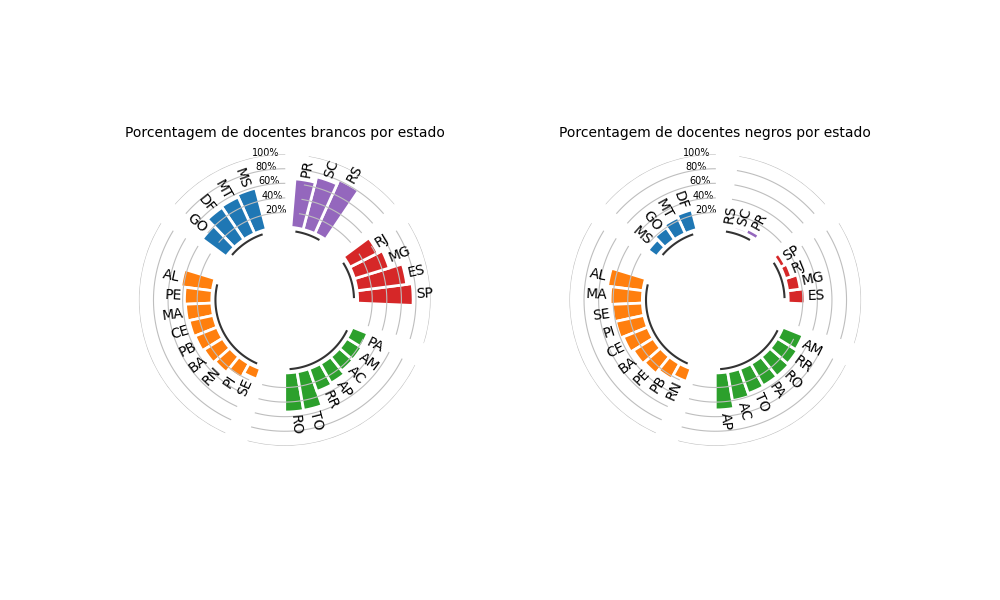
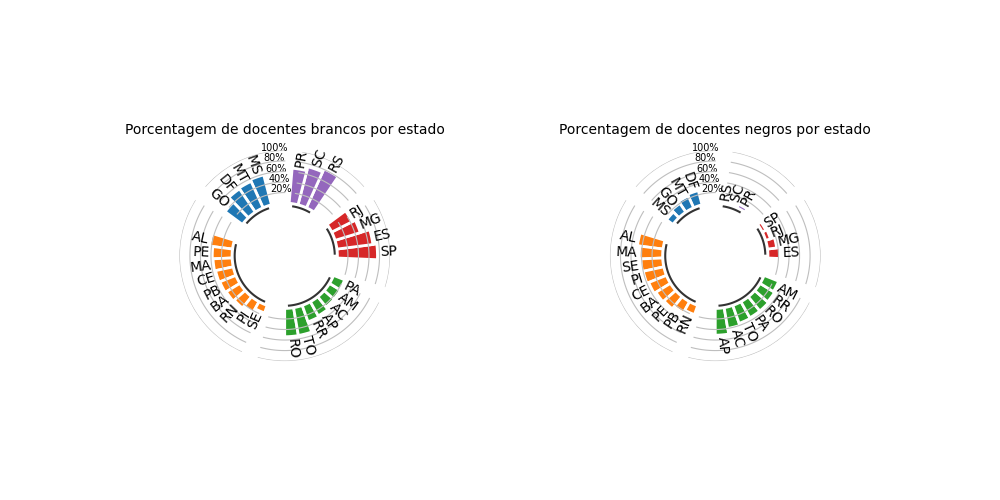
html basico pronto

Changed region(s): [[0.124, 0.21, 0.465, 0.75], [0.558, 0.21, 0.868, 0.72]]

diff --git a/index.html b/index.html
@@ -14,16 +14,16 @@
             <h1>
               A1 - Linguagens de programação
             </h1>
-            <h2>
+            <h2 class="texto-header">
               Grupo:
             </h2>
-            <h3>
+            <h3 class="texto-header">
               Daniel de Miranda Almeida
             </h3>
-            <h3>
+            <h3 class="texto-header">
               Guilherme Carvalho Cunha
             </h3>
-            <h3>
+            <h3 class="texto-header">
               Kauan Mariani Ferreira
             </h3>
         </div>
@@ -70,10 +70,18 @@
 
       <div class="grafico">
         <div class="texto-grafico">
-            <p>Observando a base e encarando a possibilidade de fazer uma visualização dividida por estados, concluí que um plot de mapa seria interessante para essa ocasião. Desse modo, foi necessária a importação da biblioteca geopandas e a leitura de um arquivo que contenha as dimensões (geometria) dos estados brasileiros.</p>
-            <p>O resultado foi um gráfico que apresenta a quantidade de docentes no ensino superior dividido por estado.</p>
-            <p>Analisando o plot, podemos observar a já esperada predominância numérica dos estados do sul e do eixo, resultado de uma concentração populacional e de investimento. 
-            Essa disparidade é tão grande, que apenas São Paulo possui mais profissionais que toda a região norte ou centro-oeste somadas.</p>
+            <p class="p-texto-grafico">
+              Observando a base e encarando a possibilidade de fazer uma visualização dividida por estados, concluí que um plot de mapa seria interessante para essa ocasião. Desse modo, foi necessária a importação da biblioteca geopandas e a leitura de um arquivo que contenha as dimensões (geometria) dos estados brasileiros.
+            </p>
+            <p class="p-texto-grafico">
+              O resultado foi um gráfico que apresenta a quantidade de docentes no ensino superior dividido por estado.
+            </p>
+            <p class="p-texto-grafico">
+              Analisando o plot, podemos observar a já esperada predominância numérica dos estados do sul e do eixo, resultado de uma concentração populacional e de investimento. 
+            </p>
+            <p>
+              Essa disparidade é tão grande, que apenas São Paulo possui mais profissionais que toda a região norte e centro-oeste somadas.
+            </p>
         </div>
         <div class="imagem-grafico">
             <img src="graficos/plot_mapa.png" alt="Visualização de porcentagem de docentes por raça e por estado">

diff --git a/style.css b/style.css
@@ -24,9 +24,15 @@ body {
     align-items: center;
 }
 
+.texto-header {
+    margin: 2px;
+}
+
 .grafico {
     margin: 10px;
     
+    width: 95vw;
+
     border-radius: 4%;
     
     display: flex;

diff --git a/main.py b/main.py
@@ -25,55 +25,54 @@ from functions.database.read import *
 # Lendo csv
 df_ens_sup = ler_csv("bases_de_dados/ed-superior-inep.csv")
 
-# geometria_brasil = criar_geometria_brasil("bases_de_dados/bcim_2016_21_11_2018.gpkg", "lim_unidade_federacao_a")
+geometria_brasil = criar_geometria_brasil("bases_de_dados/bcim_2016_21_11_2018.gpkg", "lim_unidade_federacao_a")
 
+# Dropando as colunas com drop
+removing_list_columns(df_ens_sup, ["NU_ANO_CENSO", "CO_MUNICIPIO_IES", "CO_UF_IES", "CO_REGIAO_IES","NO_REGIAO_IES","NO_UF_IES", "NO_MUNICIPIO_IES", "IN_CAPITAL_IES", "TP_ORGANIZACAO_ACADEMICA"])
 
-# # Dropando as colunas com drop
-# removing_list_columns(df_ens_sup, ["NU_ANO_CENSO", "CO_MUNICIPIO_IES", "CO_UF_IES", "CO_REGIAO_IES","NO_REGIAO_IES","NO_UF_IES", "NO_MUNICIPIO_IES", "IN_CAPITAL_IES", "TP_ORGANIZACAO_ACADEMICA"])
+removing_columns_from_to(df_ens_sup, "NO_MANTENEDORA", "QT_LIVRO_ELETRONICO")
+removing_columns_from_to(df_ens_sup, "QT_DOC_EX_INT", "NO_LOCAL_OFERTA")
+removing_columns_from_to(df_ens_sup, "NO_MESORREGIAO_IES", "CO_MICRORREGIAO_IES")
 
-# removing_columns_from_to(df_ens_sup, "NO_MANTENEDORA", "QT_LIVRO_ELETRONICO")
-# removing_columns_from_to(df_ens_sup, "QT_DOC_EX_INT", "NO_LOCAL_OFERTA")
-# removing_columns_from_to(df_ens_sup, "NO_MESORREGIAO_IES", "CO_MICRORREGIAO_IES")
+type_of_university(df_ens_sup)
 
-# type_of_university(df_ens_sup)
+removing_list_columns(df_ens_sup, ["TP_CATEGORIA_ADMINISTRATIVA"])
 
-# removing_list_columns(df_ens_sup, ["TP_CATEGORIA_ADMINISTRATIVA"])
+### Setting
 
-# ### Setting
+# Agrupando por unidade federativa e por tipo de universidade
+df_por_regiao = df_ens_sup.groupby(by=["SG_UF_IES", "Tipo de Universidade"]).sum()
 
-# # Agrupando por unidade federativa e por tipo de universidade
-# df_por_regiao = df_ens_sup.groupby(by=["SG_UF_IES", "Tipo de Universidade"]).sum()
+# Somando a quantidade de docentes por UF
+total_doc_por_UF = df_por_regiao.groupby(level='SG_UF_IES')['QT_DOC_TOTAL'].sum()
 
-# # Somando a quantidade de docentes por UF
-# total_doc_por_UF = df_por_regiao.groupby(level='SG_UF_IES')['QT_DOC_TOTAL'].sum()
+cria_porcentagem(df_por_regiao, "PCT_DOUT_TOTAL", "QT_DOC_EX_DOUT", total_doc_por_UF)
+cria_porcentagem(df_por_regiao, "PCT_MEST_TOTAL", "QT_DOC_EX_MEST", total_doc_por_UF)
+cria_porcentagem(df_por_regiao, "PCT_ESP_TOTAL", "QT_DOC_EX_ESP", total_doc_por_UF)
 
-# cria_porcentagem(df_por_regiao, "PCT_DOUT_TOTAL", "QT_DOC_EX_DOUT", total_doc_por_UF)
-# cria_porcentagem(df_por_regiao, "PCT_MEST_TOTAL", "QT_DOC_EX_MEST", total_doc_por_UF)
-# cria_porcentagem(df_por_regiao, "PCT_ESP_TOTAL", "QT_DOC_EX_ESP", total_doc_por_UF)
+df_select = df_por_regiao[["PCT_DOUT_TOTAL"]]
 
-# df_select = df_por_regiao[["PCT_DOUT_TOTAL"]]
+df_dout = cria_base_ordem_crescente(df_por_regiao, "Tipo de Universidade", "PCT_DOUT_TOTAL")
+df_mest = cria_base_ordem_crescente(df_por_regiao, "Tipo de Universidade", "PCT_MEST_TOTAL")
+df_esp = cria_base_ordem_crescente(df_por_regiao, "Tipo de Universidade", "PCT_ESP_TOTAL")
 
-# df_dout = cria_base_ordem_crescente(df_por_regiao, "Tipo de Universidade", "PCT_DOUT_TOTAL")
-# df_mest = cria_base_ordem_crescente(df_por_regiao, "Tipo de Universidade", "PCT_MEST_TOTAL")
-# df_esp = cria_base_ordem_crescente(df_por_regiao, "Tipo de Universidade", "PCT_ESP_TOTAL")
+# Crie um grid de subplots
+fig, axes = plt.subplots(1, 3, figsize=(15, 5))
 
-# # Crie um grid de subplots
-# fig, axes = plt.subplots(1, 3, figsize=(15, 5))
+formata_cada_plot(df_esp, "Professores especializados por UF", 0, axes)
+formata_cada_plot(df_mest, "Professores com mestrado por UF", 1, axes)
+formata_cada_plot(df_dout, "Professores com doutorado por UF", 2, axes)
 
-# formata_cada_plot(df_esp, "Professores especializados por UF", 0, axes)
-# formata_cada_plot(df_mest, "Professores com mestrado por UF", 1, axes)
-# formata_cada_plot(df_dout, "Professores com doutorado por UF", 2, axes)
+# Exiba o grid plot
+plt.tight_layout()
+plt.savefig("graficos/percentuais_de_docentes.png")
 
-# # Exiba o grid plot
-# plt.tight_layout()
-# plt.savefig("graficos/percentuais_de_docentes.png")
-
-# datagui = tratar_base(df_ens_sup, geometria_brasil)
-# plotar_gráfico(datagui)
+datagui = tratar_base(df_ens_sup, geometria_brasil)
+plotar_gráfico(datagui)
 
 #================================================================================
 # plot daniel
-fig, ax = plt.subplots(1, 2, subplot_kw=dict(projection="polar"), figsize=(10, 6))
+fig, ax = plt.subplots(1, 2, subplot_kw=dict(projection="polar"), figsize=(10, 5))
 
 # plot docentes brancos
 docentes_brancos_estado = select_data(df_ens_sup, "branca")
